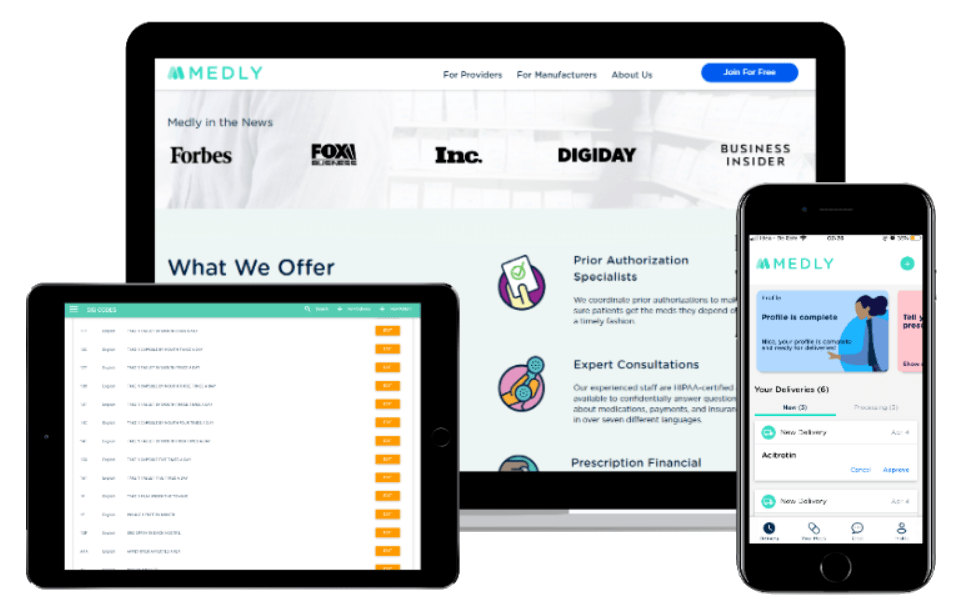
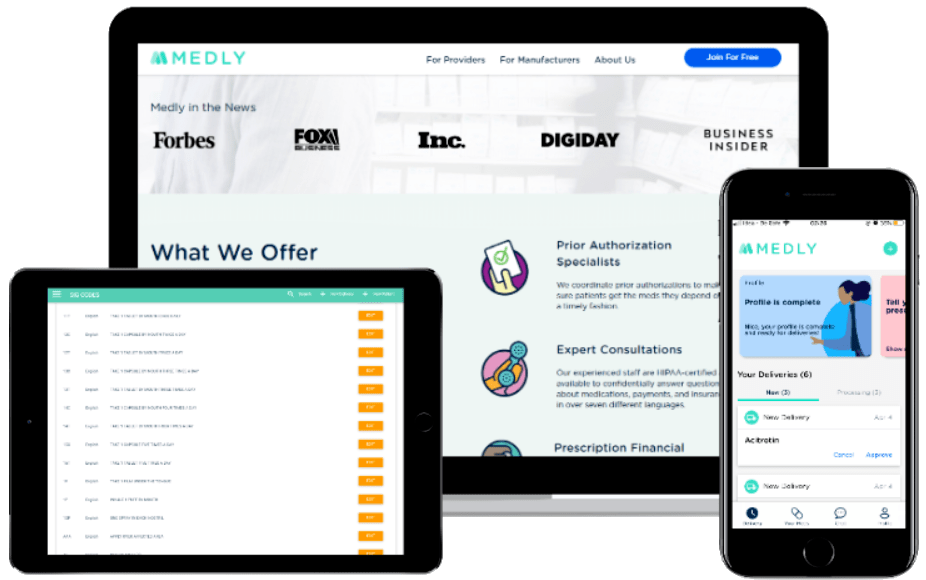
Projects img size increase and hambergor issue

diff --git a/hugo/themes/scalereal/static/css/style.css b/hugo/themes/scalereal/static/css/style.css
@@ -1375,7 +1375,7 @@ h3 {
 }
 
 .page-inner .section-service-detail .img-wrap img {
-  width: 450px;
+  width: 480px;
 }
 
 .page-inner #mobile-developemnt .img-wrap img {

diff --git a/hugo/themes/scalereal/layouts/services/single.html b/hugo/themes/scalereal/layouts/services/single.html
@@ -435,5 +435,6 @@
             {{ partial "footer" . }}
         </div>
     </body>
+    {{ partial "js" . }}
 
 </html>

diff --git a/hugo/themes/scalereal/layouts/contact/single.html b/hugo/themes/scalereal/layouts/contact/single.html
@@ -63,5 +63,5 @@
         </div>
         {{ partial "footer" . }}
     </body>
-
+    {{ partial "js" . }}
 </html>

diff --git a/hugo/themes/scalereal/layouts/company/single.html b/hugo/themes/scalereal/layouts/company/single.html
@@ -157,5 +157,5 @@
     </div>
     {{ partial "footer" . }}
 </body>
-
+{{ partial "js" . }}
 </html>

diff --git a/hugo/themes/scalereal/layouts/blogs/single.html b/hugo/themes/scalereal/layouts/blogs/single.html
@@ -54,5 +54,6 @@
     {{ partial "footer" . }}
 
   </body>
+  {{ partial "js" . }}
 
 </html>

diff --git a/hugo/themes/scalereal/layouts/projects/single.html b/hugo/themes/scalereal/layouts/projects/single.html
@@ -306,5 +306,5 @@
     {{ partial "footer" . }}
 
 </body>
-
+{{ partial "js" . }}
 </html>

diff --git a/hugo/themes/scalereal/layouts/taxonomy/tag.html b/hugo/themes/scalereal/layouts/taxonomy/tag.html
@@ -24,4 +24,5 @@
       </div>
     </div>
   </body>
+{{ partial "js" . }}
 </html>
